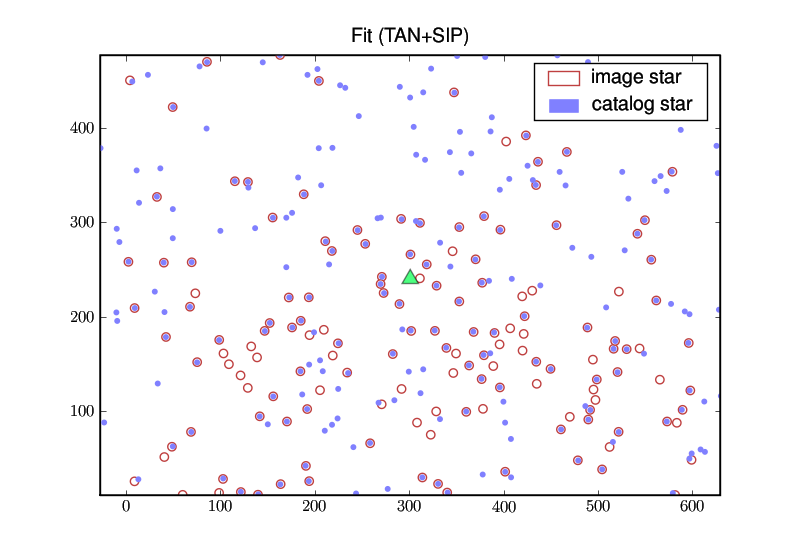
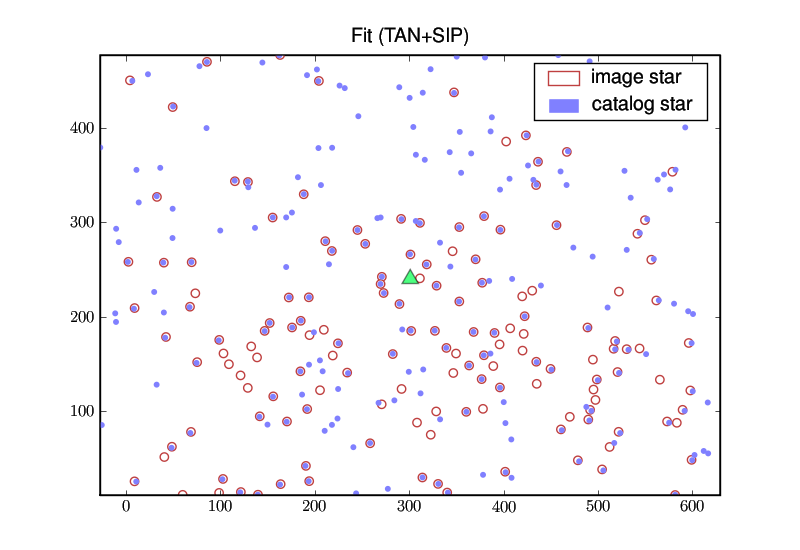
[Jon] narrowing in on pytweak error

diff --git a/src/pytweak/tweak_lib.py b/src/pytweak/tweak_lib.py
@@ -203,25 +203,40 @@ def polyWarpWCS_repeat(imageData, catalogData, WCS):
 	
 
 def polyWarpWCS(imageData, catalogData, WCS):
+	shift_total = array([0., 0.])
+	
+	for iter in range(1, MAX_CAMERA_ITERS):
+		polyWarp(imageData, catalogData, WCS)
+		
+		shift = array(WCS.warpM.reshape(2,-1)[:,-1].T)[0]
+		if iter == 1:
+			shift_first = shift
+		shift_total = shift_total + shift
+		
+		shiftAmount = sqrt(sum(square(shift)))
+		print 'shift =', shiftAmount
+		pushShift2WCS(WCS)
+	
+		(catalogData['X'], catalogData['Y']) = WCS_rd2xy(WCS, catalogData['RA'], catalogData['DEC'])
+		imageData['X_WARP'] = imageData['X']
+		imageData['Y_WARP'] = imageData['Y']
+		
+		if shiftAmount < MAX_SHIFT_AMOUNT:
+			break
+	
+	shift_error = shift_first - shift_total
+	
 	polyWarp(imageData, catalogData, WCS)
 	
-	centerShiftDist = sqrt(sum(square(array(WCS.warpM.reshape(2,-1)[:,-1].T)[0])))
-	linearWarpAmount = sqrt(sum(square(array(WCS.warpM.reshape(2,-1)[:,-3:-1] - eye(2,2)))))
-	# linearWarpAmount = abs(1-linalg.det(linearWarp))
-			
-	print '(shift, warp) = ', (centerShiftDist, linearWarpAmount)
-	# print 'shift:'
-	# print WCS.warpM.reshape(2,-1)[:,-1].T
-	# print 'warp:'
-	# print WCS.warpM.reshape(2,-1)[:,-3:-1]
-	
-	pushAffine2WCS(WCS)
+	linearWarpAmount = sqrt(sum(square(array(WCS.warpM.reshape(2,-1)[:,-3:-1] - eye(2,2)))))	
+	print 'lwarp =', linearWarpAmount	
+	pushLinear2WCS(WCS)
 	
 	(catalogData['X'], catalogData['Y']) = WCS_rd2xy(WCS, catalogData['RA'], catalogData['DEC'])
 	imageData['X_WARP'] = imageData['X']
 	imageData['Y_WARP'] = imageData['Y']
 	
-	return (centerShiftDist, linearWarpAmount)
+	return (shiftAmount, linearWarpAmount)
 
 def polyWarp(imageData, catalogData, WCS):
 	pivot = WCS.wcstan.crpix
@@ -324,21 +339,27 @@ def tweakImage(imageData, catalogData, WCS, onlyCorrespondences=False):
 
 # This "adds" the affine warp in WCS.warpM to CD
 def pushAffine2WCS(WCS):
-	startCRPix = array([WCS.wcstan.crpix[0], WCS.wcstan.crpix[1]])
+	pushShift2WCS(WCS)
+	pushLinear2WCS(WCS)
+
+def pushShift2WCS(WCS):
+	startCRPix = array([WCS.wcstan.crpix[0], WCS.wcstan.crpix[1]])	
 	centerShift = array(WCS.warpM.reshape(2,-1)[:,-1].T)[0]
-	linearWarp = WCS.warpM.reshape(2,-1)[:,-3:-1]
-	
 	(WCS.wcstan.crpix[0], WCS.wcstan.crpix[1]) = startCRPix - centerShift
 	(WCS.wcstan.crval[0], WCS.wcstan.crval[1]) = WCS.pixelxy2radec(startCRPix[0], startCRPix[1])
 	(WCS.wcstan.crpix[0], WCS.wcstan.crpix[1]) = startCRPix
+	
+	WCS.warpM.reshape(2,-1)[:,-1] = mat([0. , 0.]).T
+
+def pushLinear2WCS(WCS):
+	linearWarp = WCS.warpM.reshape(2,-1)[:,-3:-1]
 	
 	CD = matrix(WCS.wcstan.cd[:]).reshape(2,2)
 	CD2 = (CD*linearWarp).reshape(-1,1)
 	for i in arange(0,4):
 		WCS.wcstan.cd[i] = CD2[i]
 	
-	# Flush warp out of WCS.warpM
-	WCS.warpM.reshape(2,-1)[:,-3:] = mat([1., 0., 0. , 0., 1., 0.]).reshape(2,3)
+	WCS.warpM.reshape(2,-1)[:,-3:-1] = mat([1., 0., 0., 1.]).reshape(2,2)
 
 # This *replaces* the SIP warp in the WCS with the higher-order terms in WCS.warpM
 def pushPoly2WCS(WCS):

diff --git a/src/pytweak/constants.py b/src/pytweak/constants.py
@@ -9,7 +9,7 @@ DEFAULT_PROGRESSIVE_WARP = False
 DEFAULT_RENDER_OUTPUT = False
 
 MAX_CAMERA_ITERS = 20
-MAX_SHIFT_AMOUNT = 10**-5
+MAX_SHIFT_AMOUNT = 10**-10
 MAX_LWARP_AMOUNT = 10**-5
 
 DEFAULT_WARP_DEGREE = 3
